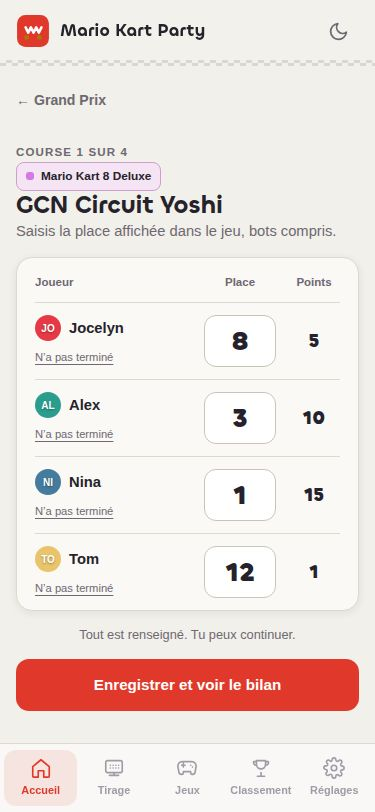
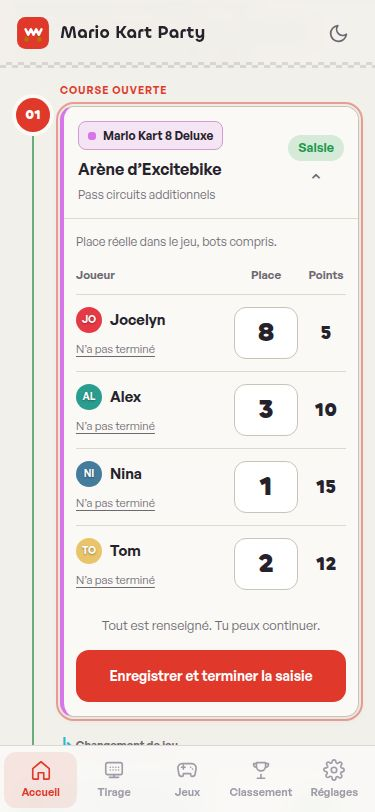
Réunir la chronologie et la saisie des scores sur une seule page

diff --git a/js/views.js b/js/views.js
@@ -545,7 +545,7 @@ function mkToggle(initial, onChange) {
 
 // ---------- Grand Prix ----------
 
-export function GpView(sessionId, gpId) {
+export function GpView(sessionId, gpId, requestedRaceNum = null) {
   const st = S();
   const session = findSession(sessionId);
   const gp = session && session.grandPrix.find((g) => g.id === gpId);
@@ -553,8 +553,19 @@ export function GpView(sessionId, gpId) {
 
   const players = getPlayers(session.playerIds);
   const complete = gpComplete(gp, session.playerIds.length) && gpConflicts(gp).length === 0;
-  const provPoints = gpPoints(gp);
-  const rank = Object.entries(provPoints).sort((a, b) => b[1] - a[1]);
+  const widgets = new Map();
+  const ready = (r) => raceComplete(r, session.playerIds.length) && gpConflicts({ races: [r] }).length === 0;
+  let nextRace = gp.races.find((r) => !ready(r));
+  let activeRaceNum = gp.races.some((r) => r.num === requestedRaceNum) ? requestedRaceNum :
+    gp.validated ? null : nextRace?.num || null;
+  const progressCount = h('strong');
+  const progressState = h('span', { class: 'sub' });
+  const progress = h('progress', { max: gp.races.length, value: 0, 'aria-label': 'Progression des courses' });
+  const rankBox = h('div', { class: 'stack', 'data-testid': 'gp-live-ranking' });
+  const nextButton = h('button', {
+    class: 'btn btn-outline btn-block', 'data-testid': 'button-next-race',
+    onclick: () => { if (nextRace) openRace(nextRace.num); },
+  });
 
   const validateBtn = h('button', {
     class: 'btn btn-primary btn-block', 'data-testid': 'button-validate-gp',
@@ -578,39 +589,110 @@ export function GpView(sessionId, gpId) {
     },
   }, gp.validated ? 'Grand Prix validé' : 'Valider le Grand Prix');
 
-  const ready = (r) => raceComplete(r, session.playerIds.length) && gpConflicts({ races: [r] }).length === 0;
-  const nextRace = gp.races.find((r) => !ready(r));
-  const doneCount = gp.races.filter(ready).length;
+  function refreshGp() {
+    nextRace = gp.races.find((r) => !ready(r));
+    const doneCount = gp.races.filter(ready).length;
+    progressCount.textContent = doneCount + ' / ' + gp.races.length + ' courses saisies';
+    progress.value = doneCount;
+    progressState.textContent = gp.validated ? 'Grand Prix validé' :
+      nextRace ? 'À renseigner : course ' + nextRace.num : 'Prêt à valider';
+    nextButton.hidden = gp.validated || !nextRace || nextRace.num === activeRaceNum;
+    nextButton.textContent = nextRace ? 'Reprendre la course ' + nextRace.num : '';
+    validateBtn.disabled = gp.validated || !gpComplete(gp, players.length) || gpConflicts(gp).length > 0;
+    widgets.forEach((w, num) => {
+      const done = ready(w.race), open = num === activeRaceNum;
+      w.button.setAttribute('aria-expanded', String(open));
+      w.button.setAttribute('aria-current', open ? 'step' : 'false');
+      w.button.classList.toggle('done', done);
+      w.shell.classList.toggle('is-open', open);
+      w.step.classList.toggle('is-done', done);
+      w.step.classList.toggle('is-current', open && !gp.validated);
+      w.label.textContent = open ? (gp.validated ? 'RÉSULTATS' : 'COURSE OUVERTE') :
+        !gp.validated && w.race === nextRace ? 'PROCHAINE COURSE' :
+        num === gp.races[0].num ? 'DÉPART' :
+        num === gp.races.at(-1).num ? 'DERNIÈRE COURSE' : '';
+      w.label.hidden = !w.label.textContent;
+      w.badge.textContent = done ? 'Saisie' : open ? 'En cours' : 'À saisir';
+      w.badge.className = 'badge ' + (done ? 'badge-ok' : open ? 'badge-primary' : '');
+    });
+    rankBox.innerHTML = '';
+    const rank = Object.entries(gpPoints(gp)).sort((a, b) => b[1] - a[1]);
+    if (!rank.length) rankBox.append(h('p', { class: 'sub' }, 'Les points apparaîtront pendant la saisie.'));
+    rank.forEach(([pid, pts], i) => {
+      const player = players.find((p) => p.id === pid);
+      rankBox.append(h('div', { class: 'rank-row' + (i === 0 ? ' first' : '') },
+        h('span', { class: 'rank-pos' }, String(i + 1)),
+        player ? avatarEl(player) : null,
+        h('span', { style: 'font-weight:600' }, player?.name || '?'),
+        h('span', { class: 'rank-pts' }, pts + ' pts')));
+    });
+  }
+
+  function openRace(num, scroll = true) {
+    activeRaceNum = num;
+    widgets.forEach((w, raceNum) => {
+      const open = raceNum === num;
+      w.panel.hidden = !open;
+      if (open && !w.panel.firstChild) {
+        w.editor = ScoreEntry(sessionId, gpId, raceNum, {
+          onChange: refreshGp,
+          onSaved: (next) => {
+            openRace(next?.num || null);
+            if (!next) {
+              validateBtn.focus({ preventScroll: true });
+              validateBtn.scrollIntoView({ behavior: 'smooth', block: 'center' });
+            }
+          },
+        });
+        w.panel.append(w.editor);
+      }
+      if (open) w.editor.refreshScores();
+    });
+    refreshGp();
+    const current = widgets.get(num);
+    if (scroll && current) {
+      current.button.focus({ preventScroll: true });
+      current.shell.scrollIntoView({ behavior: 'smooth', block: 'start' });
+    }
+  }
+
   const raceList = h('ol', { class: 'race-timeline gp-timeline', 'aria-label': 'Chronologie du Grand Prix' },
     gp.races.map((race, index) => {
       const game = raceGame(race, gp);
       const done = ready(race);
-      const next = !gp.validated && race === nextRace;
+      const next = race.num === activeRaceNum;
+      const panelId = 'gp-score-panel-' + gp.id + '-' + race.num;
+      const panel = h('div', {
+        class: 'gp-inline-score', id: panelId, hidden: true,
+        role: 'region', 'aria-label': 'Scores de la course ' + race.num,
+      });
+      const badge = h('span', { class: 'badge' }, done ? 'Saisie' : 'À saisir');
       const btn = h('button', {
-        class: 'race-item timeline-card' + (done ? ' done' : '') + (next ? ' is-next' : ''),
+        class: 'race-item' + (done ? ' done' : ''),
         style: gameStyle(game),
         'data-testid': 'race-' + race.num,
-        'aria-current': next ? 'step' : null,
-        onclick: () => { location.hash = '#/session/' + sessionId + '/gp/' + gpId + '/course/' + race.num; },
+        'aria-controls': panelId, 'aria-expanded': String(next),
+        onclick: () => openRace(activeRaceNum === race.num ? null : race.num),
       },
         h('span', { style: 'flex:1;text-align:left;min-width:0' },
           gameBadge(game),
           h('span', { class: 'timeline-course-name' }, race.contentName),
           h('span', { class: 'sub', style: 'font-size:.75rem;display:block' }, race.editionName || 'Jeu de base')
         ),
-        done
-          ? h('span', { class: 'badge badge-ok' }, 'Saisie')
-          : h('span', { class: 'badge' + (next ? ' badge-primary' : '') }, next ? 'Jouer →' : 'À suivre')
+        h('span', { class: 'gp-race-summary' }, badge,
+          h('span', { class: 'gp-expand-mark', 'aria-hidden': 'true' }, '⌄'))
       );
-      return timelineStep({
+      const shell = h('div', { class: 'gp-race-shell timeline-card', style: gameStyle(game) }, btn, panel);
+      const step = timelineStep({
         index, game, previousGame: index ? raceGame(gp.races[index - 1], gp) : null,
-        card: btn, state: done ? 'is-done' : next ? 'is-current' : '',
-        label: next ? 'PROCHAINE COURSE' : index === 0 ? 'DÉPART' : index === gp.races.length - 1 ? 'DERNIÈRE COURSE' : '',
+        card: shell, label: ' ',
       });
+      widgets.set(race.num, { race, button: btn, badge, shell, panel, step, label: step.querySelector('.timeline-label') });
+      return step;
     })
   );
 
-  const view = h('div', { class: 'stack fade-in' },
+  const view = h('div', { class: 'stack fade-in gp-unified-page' },
     h('a', { class: 'back-link', href: '#/session/' + sessionId }, '← ' + session.name),
     h('div', { class: 'page-head' },
       h('div', {},
@@ -625,30 +707,17 @@ export function GpView(sessionId, gpId) {
     gameLegend(gp.races, gp),
     h('div', { class: 'card stack gp-progress' },
       h('div', { class: 'spread' },
-        h('strong', {}, doneCount + ' / ' + gp.races.length + ' courses saisies'),
-        h('span', { class: 'sub' }, gp.validated ? 'Grand Prix validé' : nextRace ? 'À jouer : course ' + nextRace.num : 'Prêt à valider')),
-      h('progress', { max: gp.races.length, value: doneCount, 'aria-label': 'Progression des courses' }),
-      !gp.validated && nextRace ? h('a', {
-        class: 'btn btn-primary btn-block', 'data-testid': 'button-next-race',
-        href: '#/session/' + sessionId + '/gp/' + gpId + '/course/' + nextRace.num,
-      }, 'Jouer la course ' + nextRace.num + ' · ' + nextRace.contentName) : null),
+        progressCount, progressState),
+      progress, nextButton),
     h('section', {},
       h('h2', { class: 'section-title' }, 'Le déroulé du Grand Prix'),
+      h('p', { class: 'sub gp-unified-help' }, 'Ouvre une course pour saisir les places juste dessous. Tout reste sur cette page.'),
       raceList,
       h('div', { class: 'timeline-finish' }, 'ARRIVÉE · ' + (gp.validated ? 'Grand Prix validé' : 'Validation du Grand Prix'))
     ),
     h('div', { class: 'card' },
       h('h2', { class: 'section-title' }, 'Points provisoires'),
-      rank.length
-        ? h('div', { class: 'stack' },
-            rank.map(([pid, pts], i) => h('div', { class: 'rank-row' + (i === 0 ? ' first' : '') },
-              h('span', { class: 'rank-pos' }, String(i + 1)),
-              (() => { const p = players.find((x) => x.id === pid); return p ? avatarEl(p) : null; })(),
-              h('span', { style: 'font-weight:600' }, (() => { const p = players.find((x) => x.id === pid); return p ? p.name : '?'; })()),
-              h('span', { class: 'rank-pts' }, pts + ' pts')
-            ))
-          )
-        : h('p', { class: 'sub' }, 'Saisissez les premières courses pour voir les points.')
+      rankBox
     ),
     gp.validated
       ? h('div', { class: 'card' },
@@ -698,12 +767,13 @@ export function GpView(sessionId, gpId) {
         }, 'Annuler le Grand Prix')
       : null
   );
+  openRace(activeRaceNum, false);
   return view;
 }
 
 // ---------- Saisie d'une course ----------
 
-export function RaceView(sessionId, gpId, raceNum) {
+function ScoreEntry(sessionId, gpId, raceNum, { onChange, onSaved } = {}) {
   const session = findSession(sessionId);
   const gp = session && session.grandPrix.find((g) => g.id === gpId);
   const race = gp && gp.races.find((r) => r.num === raceNum);
@@ -712,9 +782,10 @@ export function RaceView(sessionId, gpId, raceNum) {
   const players = getPlayers(session.playerIds);
   race.results = race.results || {};
   const controls = new Map();
-  const gpUrl = '#/session/' + sessionId + '/gp/' + gpId;
-  const next = gp.races.find((r) => r.num > race.num &&
-    (!raceComplete(r, players.length) || gpConflicts({ races: [r] }).length));
+  const getNext = () => gp.races.find((r) => r.num > race.num &&
+    (!raceComplete(r, players.length) || gpConflicts({ races: [r] }).length)) ||
+    gp.races.find((r) => r.num !== race.num &&
+      (!raceComplete(r, players.length) || gpConflicts({ races: [r] }).length));
   const message = h('p', { class: 'score-feedback sub', role: 'status', 'aria-live': 'polite' });
   const saveBtn = h('button', {
     class: 'btn btn-primary btn-block score-submit', disabled: true,
@@ -725,9 +796,9 @@ export function RaceView(sessionId, gpId, raceNum) {
         toast('Sauvegarde impossible sur cet appareil. Vos saisies restent disponibles dans cet onglet.', 'err');
         return;
       }
-      location.hash = gpUrl + (next ? '/course/' + next.num : '');
+      onSaved?.(getNext());
     },
-  }, next ? 'Enregistrer et passer à la course suivante' : 'Enregistrer et voir le bilan');
+  }, 'Enregistrer');
 
   function validPlace(raw) {
     return /^\d+$/.test(raw) && Number.isSafeInteger(Number(raw)) && Number(raw) >= 1;
@@ -764,6 +835,7 @@ export function RaceView(sessionId, gpId, raceNum) {
     });
     const ready = !invalid && !clashes && filled === players.length;
     saveBtn.disabled = gp.validated || !ready;
+    saveBtn.textContent = getNext() ? 'Enregistrer et passer à la suivante' : 'Enregistrer et terminer la saisie';
     message.textContent = gp.validated ? 'Résultats validés. La saisie est verrouillée.' :
       clashes ? 'Deux joueurs ne peuvent pas avoir la même place.' :
       invalid ? 'Corrige les places signalées avant de continuer.' :
@@ -774,7 +846,7 @@ export function RaceView(sessionId, gpId, raceNum) {
 
   const rows = players.map((p, index) => {
     const res = race.results[p.id] || {};
-    const errorId = 'score-error-' + p.id;
+    const errorId = 'score-error-' + gp.id + '-' + race.num + '-' + p.id;
     const input = h('input', {
       class: 'score-place', type: 'text', inputmode: 'numeric', pattern: '[0-9]*',
       enterkeyhint: index < players.length - 1 ? 'next' : 'done',
@@ -790,6 +862,7 @@ export function RaceView(sessionId, gpId, raceNum) {
         else delete race.results[p.id];
         save();
         refreshFeedback();
+        onChange?.();
       },
       onkeydown: (e) => {
         if (e.key !== 'Enter') return;
@@ -816,6 +889,7 @@ export function RaceView(sessionId, gpId, raceNum) {
           input.value = '';
           save();
           refreshFeedback();
+          onChange?.();
           close();
           if (!key) input.focus();
         };
@@ -840,23 +914,25 @@ export function RaceView(sessionId, gpId, raceNum) {
     return row;
   });
   refreshFeedback();
-  return h('div', { class: 'stack fade-in score-page' },
-    h('a', { class: 'back-link', href: gpUrl }, '← Grand Prix'),
-    h('header', { class: 'stack score-heading' },
-      h('p', { class: 'score-course-number' }, 'COURSE ' + race.num + ' SUR ' + gp.races.length),
-      gameBadge(raceGame(race, gp)),
-      h('h1', { class: 'page-title' }, race.contentName),
-      h('p', { class: 'sub' }, 'Saisis la place affichée dans le jeu, bots compris.')),
-    gp.validated
-      ? h('div', { class: 'warn-banner' }, h('div', {}, 'Grand Prix validé : la saisie est verrouillée. Utilisez « Modifier » sur la page du GP pour corriger.'))
-      : null,
-    h('section', { class: 'card score-sheet', 'aria-label': 'Places et points des joueurs' },
+  const editor = h('div', { class: 'stack score-inline-editor' },
+    h('p', { class: 'sub score-inline-hint' }, 'Place réelle dans le jeu, bots compris.'),
+    h('section', { class: 'score-sheet', 'aria-label': 'Places et points de la course ' + race.num },
       h('div', { class: 'score-columns', 'aria-hidden': 'true' },
         h('span', {}, 'Joueur'), h('span', {}, 'Place'), h('span', {}, 'Points')),
       ...rows),
-    gp.validated ? h('a', { class: 'btn btn-outline btn-block', href: gpUrl }, 'Retour au Grand Prix')
+    gp.validated ? h('p', { class: 'sub score-feedback' }, 'Résultats validés · saisie verrouillée.')
       : h('div', { class: 'stack score-footer' }, message, saveBtn)
   );
+  editor.refreshScores = refreshFeedback;
+  return editor;
+}
+
+// Compatibilité avec les anciens liens : même écran, course demandée ouverte.
+export function RaceView(sessionId, gpId, raceNum) {
+  const session = findSession(sessionId);
+  const gp = session && session.grandPrix.find((g) => g.id === gpId);
+  if (!gp || !gp.races.some((r) => r.num === raceNum)) return NotFound();
+  return GpView(sessionId, gpId, raceNum);
 }
 
 // ---------- 404 ----------

diff --git a/css/style.css b/css/style.css
@@ -457,6 +457,28 @@ h1, h2, h3, .display { font-family: var(--font-display); }
 .gp-timeline .race-item { padding: 14px; background: var(--surface); box-shadow: var(--shadow-sm); }
 .gp-timeline .race-item.is-next { outline: 2px solid color-mix(in srgb, var(--primary) 50%, transparent); outline-offset: 2px; }
 .gp-timeline .race-item > .badge { flex: none; }
+.gp-race-shell { border: 1px solid var(--border); border-radius: 14px; background: var(--surface); box-shadow: var(--shadow-sm); overflow: hidden; scroll-margin-top: 106px; }
+.gp-race-shell.is-open { outline: 2px solid color-mix(in srgb, var(--primary) 45%, transparent); outline-offset: 2px; }
+.gp-timeline .gp-race-shell > .race-item { width: 100%; border: 0; border-radius: 0; box-shadow: none; }
+.gp-race-summary { display: flex; flex-direction: column; align-items: center; gap: 10px; flex: none; }
+.gp-expand-mark { font-size: 1.2rem; line-height: 1; color: var(--text-muted); }
+.gp-race-shell.is-open .gp-expand-mark { transform: rotate(180deg); }
+.gp-inline-score { padding: 0 12px 14px; border-top: 1px solid var(--divider); }
+.gp-inline-score[hidden], .gp-progress [hidden] { display: none !important; }
+.gp-unified-help { margin: 0 0 16px; }
+.score-inline-editor { gap: 12px; padding-top: 14px; }
+.score-inline-hint { margin: 0; font-size: .75rem; }
+.gp-inline-score .score-sheet { padding: 0; }
+.gp-inline-score .score-columns, .gp-inline-score .score-row { grid-template-columns: minmax(0, 1fr) 64px 40px; column-gap: 8px; }
+.gp-inline-score .score-place { width: 64px; }
+.gp-inline-score .score-columns { padding-top: 0; }
+.gp-inline-score .score-submit { font-size: .85rem; }
+@media (min-width: 720px) {
+  #main:has(.gp-unified-page) { max-width: 760px; }
+  .gp-inline-score { padding-inline: 20px; padding-bottom: 20px; }
+  .gp-inline-score .score-columns, .gp-inline-score .score-row { grid-template-columns: minmax(0, 1fr) 88px 60px; column-gap: 18px; }
+  .gp-inline-score .score-place { width: 88px; }
+}
 .gp-progress progress { display: block; width: 100%; height: 8px; border: none; border-radius: 8px; overflow: hidden; background: var(--surface-2); accent-color: var(--green); }
 .gp-progress progress::-webkit-progress-bar { background: var(--surface-2); }
 .gp-progress progress::-webkit-progress-value { background: var(--green); border-radius: 8px; }

diff --git a/sw.js b/sw.js
@@ -1,5 +1,5 @@
 // Service worker : cache précautionneux pour le fonctionnement hors ligne.
-const CACHE = 'mkp-v5-simple-scores';
+const CACHE = 'mkp-v6-inline-grand-prix';
 const ASSETS = [
   './',
   'index.html',

diff --git a/README.md b/README.md
@@ -31,6 +31,7 @@
   - historique des tirages.
 - **Grand Prix** : 4 courses par défaut (configurable), tirées au sort ou reprises d'un tirage rapide.
 - **Saisie des courses** :
+  - directement sous la course ouverte dans la chronologie du Grand Prix, sans changer de page ;
   - un **champ numérique par joueur** pour saisir sa place réelle, bots compris, et des points calculés automatiquement ;
   - statuts spéciaux via « N’a pas terminé » : Abandon, Absent, Forfait (0 point) ;
   - détection des conflits (deux joueurs sur la même place) avant validation.
@@ -79,14 +80,17 @@ une sélection périmée. Choisissez votre soirée dans le sélecteur, puis
 Chaque jeu dispose d'un badge nominatif et d'une couleur cohérente. Les courses
 sont reliées dans une chronologie numérotée, du départ à l'arrivée, avec un repère
 à chaque changement de jeu. L'écran du Grand Prix affiche la progression des
-saisies et un accès direct à la prochaine course incomplète ; les autres courses
-restent accessibles pour la saisie ou une correction.
+saisies et ouvre automatiquement la première course incomplète. Cliquez sur une
+course pour déplier ses champs de score juste dessous : une seule course est
+ouverte à la fois, sans navigation vers une autre page. Les autres courses
+restent accessibles pour la saisie ou une correction et les points provisoires
+se mettent à jour en direct. Les anciens liens vers une course restent compatibles.
 
 1. **Créez une soirée** — Accueil → « Nouvelle session » → ajoutez au moins 2 joueurs (12 maximum).
 2. **Tirez les courses** :
    - depuis la soirée : « Nouveau Grand Prix » — cochez un ou plusieurs jeux, choisissez les éditions, le nombre de courses, puis « Tirer les courses » ;
    - ou depuis l'onglet « Tirage » : tirez, verrouillez vos circuits préférés, relancez le reste, puis « Lancer un Grand Prix » ou « Créer une session avec ce tirage ».
-3. **Saisissez chaque course** — tapez la place réelle de chaque joueur dans son champ numérique. Les points s'affichent en direct ; une place au-delà du barème vaut 0 point. Les doublons et les valeurs invalides sont signalés. Utilisez « N’a pas terminé » pour les cas particuliers, puis « Enregistrer et passer à la course suivante ». Après la dernière course, le bouton ramène au bilan du Grand Prix. Les saisies partielles sont sauvegardées automatiquement ; le bouton d'enregistrement écrit immédiatement la sauvegarde avant de changer de course.
+3. **Saisissez chaque course sur la même page** — dans la chronologie, tapez la place réelle de chaque joueur sous la course ouverte. Les points s'affichent en direct ; une place au-delà du barème vaut 0 point. Les doublons et les valeurs invalides sont signalés. Utilisez « N’a pas terminé » pour les cas particuliers, puis « Enregistrer et passer à la suivante » : la prochaine course incomplète se déplie sur place. Après la dernière course, « Enregistrer et terminer la saisie » vous amène au bouton de validation, toujours sur la même page. Les saisies partielles sont sauvegardées automatiquement ; le bouton d'enregistrement écrit immédiatement la sauvegarde avant de passer à la suite.
 4. **Validez le Grand Prix** — une fois les 4 courses complètes et sans conflit, « Valider le Grand Prix » ajoute les points au classement de la soirée.
 5. **Corrigez si besoin** — « Modifier » sur le GP validé : chaque changement est horodaté dans l'historique d'audit.
 6. **Consultez les classements** — onglet « Classement » : par soirée ou toutes soirées, export CSV possible.
